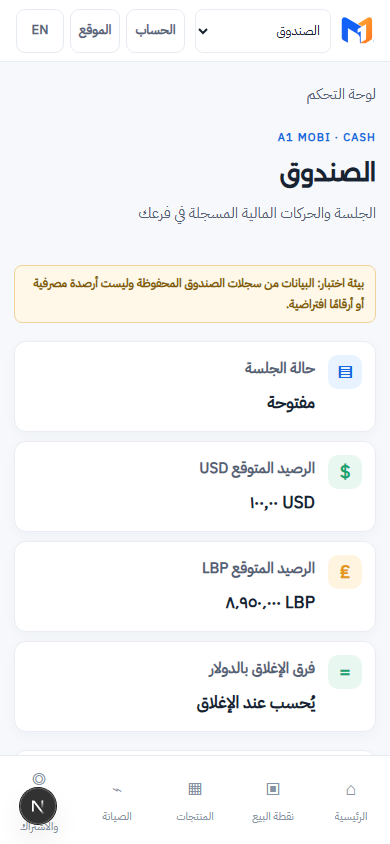
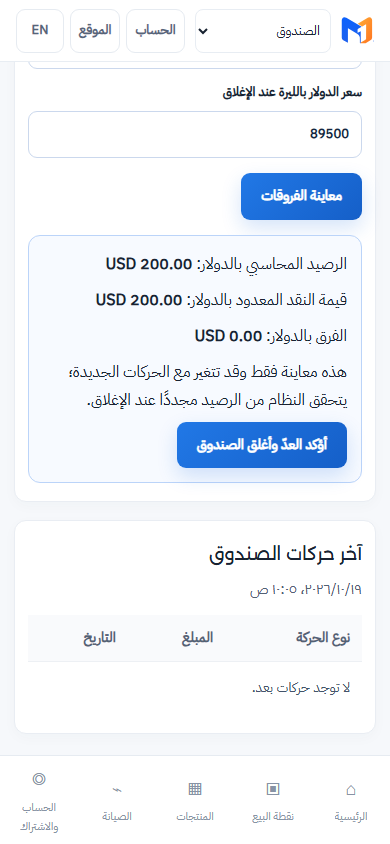
test(mobi): prove C14 cash close and audit in production-mode browser

diff --git a/docs/reviews/2026-10-19/c14/C14-CHECKPOINT.md b/docs/reviews/2026-10-19/c14/C14-CHECKPOINT.md
@@ -1,42 +1,40 @@
-# A1 Mobi — C-14/01 Safe Checkpoint (19 October 2026)
+# A1 Mobi — C-14/01 Verified Checkpoint (19 October 2026)
 
-**Status:** SAFE WIP — NOT FINAL ACCEPTANCE / NOT PRODUCTION-READY
-**Device:** Thaghr only
-**Branch:** `feat/mobi-abc-continue-20261013` / Draft PR #12
-**Starting commit:** `67f8c817e2538a24f8775464bd409a4c1eef57cd`
-**Environment:** local PostgreSQL `127.0.0.1:5438/mobi_uat`, isolated Next.js port `3218`; existing port `3185` untouched.
+**C-14/01 status:** PASS for zero-variance dual-currency cash close; variance approvals intentionally gated.
+**A1 Mobi Pilot v1.0 status:** PRE-LAUNCH / NO-GO for customer and production until remaining gates pass.
+**Device:** Thaghr exclusively
+**Branch:** `feat/mobi-abc-continue-20261013` / PR #12 remains Draft and unmerged
+**Baseline:** `67f8c817e2538a24f8775464bd409a4c1eef57cd`
 
-## Delivered in this checkpoint
+## C-14/01 delivered
 
-- Branch-scoped cash snapshot with USD/LBP expected balances and last 30 movements.
-- Protected `POST /api/ops/cash/close` with schema validation, origin check, tenant/branch scope, and explicit confirmation.
-- Dual-currency physical count and read-only variance preview in Arabic and English.
-- Zero-variance close path using the existing serializable cash service, journal and audit.
-- **Security restriction:** Approver ID selection does NOT establish independent managerial consent. This pilot API now rejects requests supplying `approverId` or `varianceReason` with `INDEPENDENT_APPROVAL_REQUIRED`. The UI forbids closing a drawer when a variance is present; no fictitious approval is displayed.
-- Isolated Chrome UAT script and saved screenshots.
+- Branch-scoped cash snapshot for USD/LBP with the last 30 movements.
+- Protected `POST /api/ops/cash/close` with explicit confirmation, schema validation, origin protection, tenant/branch and manager permission checks.
+- Client-side USD/LBP count, exchange-rate input, read-only ledger variance preview and true zero-variance close.
+- Persistent CLOSED status and exactly one cash.session.closed audit entry confirmed from a real browser flow against PostgreSQL.
+- Critical policy: choosing an approver ID is not proof of manager approval. The endpoint rejects forged approval with `INDEPENDENT_APPROVAL_REQUIRED` and the UI disables variance close until a separately authenticated manager-approval workflow is implemented. The pilot does not misrepresent variance approval as ready.
 
-## Verified evidence
+## Verification and evidence
 
-- C-14 API suite: **7/7 PASS**, including forged-manager-approval rejection.
+- API cash-close tests: **7/7 PASS**.
 - C-13 cash-owner regression: **5/5 PASS**.
-- PostgreSQL UAT cash authorization: **1/1 PASS** when explicitly using `.env.local` (not skipped).
-- TypeScript `tsc --noEmit`: **PASS**.
-- Focused ESLint: **PASS**.
-- Chrome: successful authenticated desktop and mobile rendering, four metric cards, no mobile horizontal overflow, and successful USD/LBP preview during one warm run. See `c14-browser-result.json` and PNG screenshots.
+- PostgreSQL C-14 UAT test: **1/1 PASS** (explicit `.env.local` to avoid skipped DB checks).
+- Total: **13/13 PASS**; TypeScript `tsc --noEmit` and focused ESLint: **PASS**.
+- Isolated optimized production Next.js 16.4.0 build `next build --webpack` using existing generated Prisma Client: **PASS** (exit 0, all 28 static-page steps completed, /ar/cash and /api/ops/cash/close included).
+- Chrome against isolated `next start` on `127.0.0.1:3218`: **PASS TWICE** (two separate runs, exit 0). Authenticated 1440x900 desktop and 390x844 mobile each showed four cash metrics, no mobile horizontal overflow; preview showed correct USD/LBP amounts; real zero-variance close persisted CLOSED with exactly one audit record in `127.0.0.1:5438/mobi_uat`.
+- Evidence: `c14-browser-result.json`, `cash-desktop-auth.png`, `cash-mobile-auth.png`, `cash-mobile-preview.png`, `cash-mobile-closed.png`; executable browser gate `scripts/c14-cash-browser-gate.mjs`. Synthetic UAT fixtures are removed by the script.
 
-## Unresolved / do not claim PASS
+## Known limitations and controls
 
-1. **Intermittent DB access**: the local Next.js process received Prisma `P1001` against `127.0.0.1:5438`, causing authenticated cash page 500 and login 503 during subsequent browser runs. Docker container `a1-mobi-techzone-uat-20261017` was still running (no restarts); at inspection 44/100 PostgreSQL connections were active. Root cause **not proven**. Do not mask or ignore this instability.
-2. Browser-driven **actual close + audit** test not consistently completed. The script now checks persisted CLOSED state and one audit record, but final verification is pending a stable full run.
-3. Variance closing requires a separately authenticated manager approval flow. Until implemented and tested, intentional no-variance-only pilot policy applies.
-4. Full A/B/C customer journey, SMTP/recovery, inventory/POS, backups and rollback, and Hostinger prelaunch gates remain to be completed and verified independently.
+- During Next.js *development* runs, cold compiles took up to 60 seconds; intermittent Prisma `P1001` against Docker-published UAT database caused HTTP 500 and login 503, despite the container being up (0 restarts at inspection). These symptoms did not recur in the two completed production-build Chrome flows; the underlying intermittent connectivity is not conclusively explained and remains an operational stability check.
+- Conventional `npm run build` prebuild Prisma Client generation hit Windows `EPERM` renaming a shared query engine DLL. The isolated optimized Next.js production build succeeded using the existing generated client. Do not claim the conventional build command is reproducible until this lock is resolved without disrupting other services.
+- Variance closing with an independently authenticated manager is deferred, intentionally denied by both UI and API.
+- Scope not yet accepted: other C journeys (settlements, refunds, warranties, multi-item POS), B real commerce/order/inventory E2E, A signup/login/SMTP/recovery, final A/B/C UX, isolation/security and financial regression suites, HTTPS health monitoring, backup/restore and rollback, Hostinger prelaunch review.
 
-## Release decision
+## Release policy
 
-**NO-GO** for production replacement, PR merge, or first-customer pilot until the above gates pass. This is a checkpoint commit on the existing Draft PR only. Previous Hostinger deployment remains unchanged.
+**No PR merge and no production deployment** before comprehensive prelaunch and explicit owner approval. Existing Hostinger deployment and Thaghr Mobi listener on port 3185 were not changed. `A1 Port` remains the user's remote communication channel only. A1 Assist is independent later integration and is not a Pilot blocker.
 
-## Immediate next execution
+## Next stage
 
-1. Stabilize or isolate the `mobi_uat` PostgreSQL Windows/Docker connectivity.
-2. Rerun `node --env-file=.env.local scripts/c14-cash-browser-gate.mjs`, asserting persisted zero-variance close and single audit, and screenshot the resulting closed state.
-3. Continue C settlement/returns/warranty/POS minimum, then B and A E2E, UX, tenant security and recovery; request explicit production approval only after successful Pre-Launch.
+Finish remaining C first-customer minimum and prove each end-to-end journey; then B, A, UI and Foundation checks; prepare backed-up Hostinger release candidate and rollback exercise; request production approval only after Pre-Launch PASS.
